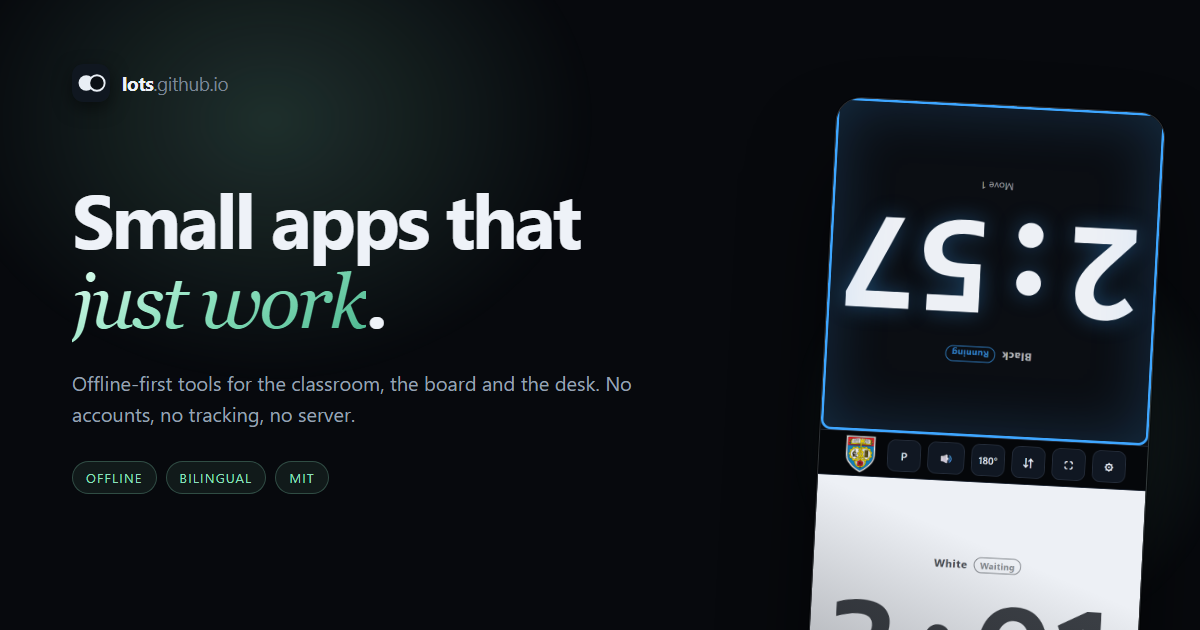
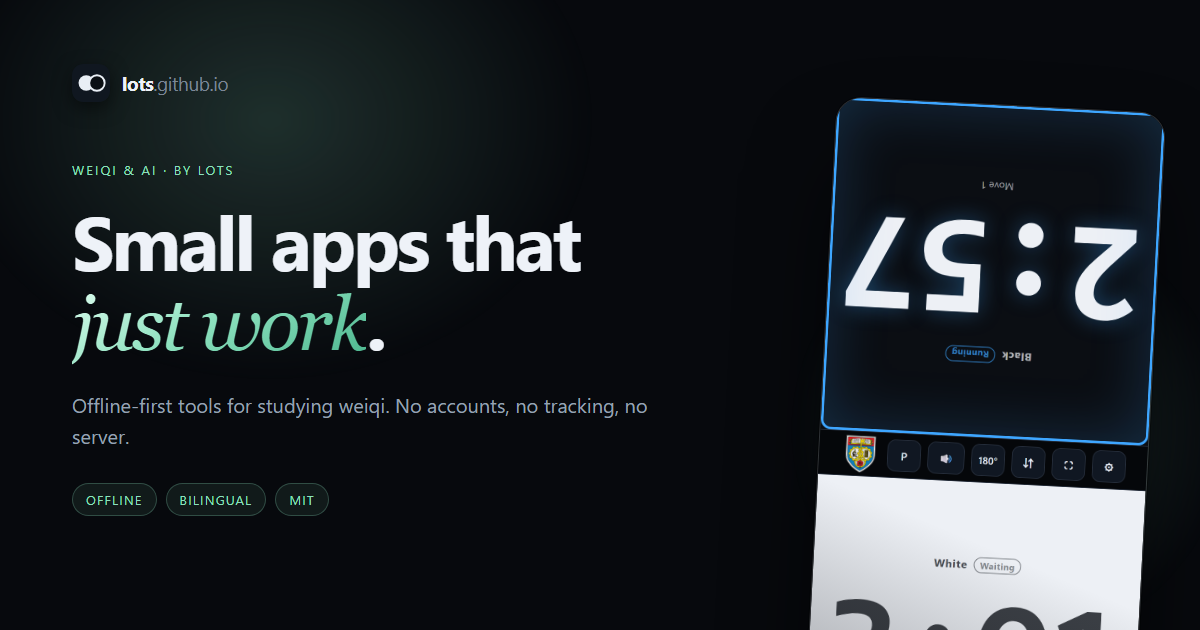
Tell the weiqi-and-AI story on the landing page

Changed region(s): [[0.0617, 0.2413, 0.555, 0.7238], [0.0617, 0.754, 0.2775, 0.8143], [0.1542, 0.2413, 0.185, 0.2714]]

diff --git a/index.html b/index.html
@@ -3,8 +3,8 @@
 <head>
 <meta charset="utf-8">
 <meta name="viewport" content="width=device-width, initial-scale=1, viewport-fit=cover">
-<title>lots — small apps that just work</title>
-<meta name="description" content="Offline-first web apps for the classroom, the board and the desk. Plain HTML and CSS — no accounts, no tracking, no server to keep alive.">
+<title>lots — weiqi, AI and small apps that just work</title>
+<meta name="description" content="Offline-first tools for studying weiqi, built by a hobbyist who likes AI: a chess and Go clock, an SGF editor, and whatever comes next. No accounts, no tracking, no server.">
 <meta name="color-scheme" content="dark light">
 <meta name="theme-color" content="#07090d">
 <link rel="canonical" href="https://lots.github.io/">
@@ -15,8 +15,8 @@
 
 <meta property="og:type" content="website">
 <meta property="og:site_name" content="lots">
-<meta property="og:title" content="lots — small apps that just work">
-<meta property="og:description" content="Offline-first web apps for the classroom, the board and the desk. No accounts, no tracking, no server.">
+<meta property="og:title" content="lots — weiqi, AI and small apps that just work">
+<meta property="og:description" content="Offline-first tools for studying weiqi, built by a hobbyist who likes AI. No accounts, no tracking, no server.">
 <meta property="og:url" content="https://lots.github.io/">
 <meta property="og:image" content="https://lots.github.io/assets/og.png">
 <meta property="og:image:width" content="1200">
@@ -80,14 +80,14 @@
 
 <main id="main">
   <section class="hero wrap">
-    <p class="eyebrow"><span class="dot" aria-hidden="true"></span><span class="i18n-en">Apps by lots</span><span class="i18n-zh">lots 的应用</span></p>
+    <p class="eyebrow"><span class="dot" aria-hidden="true"></span><span class="i18n-en">Weiqi &amp; AI, by lots</span><span class="i18n-zh">围棋与 AI，lots 出品</span></p>
     <h1>
       <span class="i18n-en">Small apps that <em>just work</em>.</span>
       <span class="i18n-zh">小而可靠，<em>打开就能用</em>。</span>
     </h1>
     <p class="lede">
-      <span class="i18n-en">Offline-first tools for the classroom, the board and the desk. Plain HTML and CSS — no accounts, no tracking, no server to keep alive.</span>
-      <span class="i18n-zh">为课堂、棋盘和书桌准备的离线小工具。纯 HTML 与 CSS——不需要账号，不做追踪，也没有要一直开着的服务器。</span>
+      <span class="i18n-en">Offline-first tools for studying weiqi — made by a hobbyist who likes AI. No accounts, no tracking, no server to keep alive.</span>
+      <span class="i18n-zh">一个围棋爱好者的离线小工具，顺手用上 AI。没有账号，没有追踪，也没有要一直开着的服务器。</span>
     </p>
     <div class="hero-cta">
       <a class="btn btn-primary" href="#apps">
@@ -167,36 +167,53 @@
 
   <section id="about" class="about wrap">
     <div class="about-card">
-      <h2><span class="i18n-en">Built to be boring — in the good way.</span><span class="i18n-zh">把「无聊」做好，其实是件好事。</span></h2>
-      <div class="about-cols">
-        <div>
-          <h3><span class="i18n-en">Nothing to maintain</span><span class="i18n-zh">没有东西要维护</span></h3>
-          <p>
-            <span class="i18n-en">Every app is static files on GitHub Pages. No database, no API keys, no bill at the end of the month.</span>
-            <span class="i18n-zh">每个应用都是 GitHub Pages 上的静态文件。没有数据库，没有 API 密钥，月底也没有账单。</span>
-          </p>
-        </div>
-        <div>
-          <h3><span class="i18n-en">Yours to keep</span><span class="i18n-zh">数据留在你手里</span></h3>
-          <p>
-            <span class="i18n-en">Data lives in the browser. Leave the tab open on a plane, come back, nothing has moved.</span>
-            <span class="i18n-zh">数据存在浏览器里。在飞机上开着标签页，回来时一切照旧。</span>
-          </p>
-        </div>
-        <div>
-          <h3><span class="i18n-en">Made for phones</span><span class="i18n-zh">为手机而做</span></h3>
-          <p>
-            <span class="i18n-en">Add to home screen, open full-screen, use it offline — no app store and no install step.</span>
-            <span class="i18n-zh">添加到主屏幕，全屏打开，离线可用——不用应用商店，也不用安装。</span>
-          </p>
-        </div>
+      <div class="about-lede">
+        <p class="kicker"><span class="i18n-en">About</span><span class="i18n-zh">关于</span></p>
+        <h2>
+          <span class="i18n-en">Weiqi is my hobby.<br>AI is the other one.</span>
+          <span class="i18n-zh">围棋是我的爱好，<br>AI 是另一个。</span>
+        </h2>
+        <p>
+          <span class="i18n-en">I'm lots. I play weiqi for fun, and I build small tools with AI to study it better — a clock that reads byoyomi properly, an editor that keeps every variation of a review session. I make them for my own practice first; if they help yours too, I'm glad.</span>
+          <span class="i18n-zh">我是 lots。下棋是为了开心，也喜欢用 AI 做些小工具，把棋研究得更透一些——按围棋习惯读秒的棋钟，能装下整棵变化树的打谱器。先为自己用；如果也能帮到你，那就更好了。</span>
+        </p>
+        <p class="next">
+          <span class="i18n-en">Next up: AI-assisted review — tools that explain why a move is good, not just how much it wins by.</span>
+          <span class="i18n-zh">接下来是 AI 复盘：不只告诉你赢多少，也试着讲清楚一手棋为什么好。</span>
+        </p>
+        <a class="link" href="https://github.com/lots">
+          <span class="i18n-en">More on GitHub &rarr;</span><span class="i18n-zh">在 GitHub 上看看 &rarr;</span>
+        </a>
       </div>
+      <ul class="principles">
+        <li>
+          <h3><span class="num" aria-hidden="true">01</span><span class="i18n-en">One job each</span><span class="i18n-zh">一个应用只做一件事</span></h3>
+          <p>
+            <span class="i18n-en">A clock is a clock. Every app opens instantly and does the one thing it is for.</span>
+            <span class="i18n-zh">棋钟就是棋钟。每个应用打开即用，只做它该做的那件事。</span>
+          </p>
+        </li>
+        <li>
+          <h3><span class="num" aria-hidden="true">02</span><span class="i18n-en">Works offline</span><span class="i18n-zh">离线也能用</span></h3>
+          <p>
+            <span class="i18n-en">No accounts, no sync, no server. Your settings stay in the browser, and the files are yours.</span>
+            <span class="i18n-zh">没有账号，不做同步，也不用服务器。设置留在浏览器里，文件都在你手上。</span>
+          </p>
+        </li>
+        <li>
+          <h3><span class="num" aria-hidden="true">03</span><span class="i18n-en">Open source</span><span class="i18n-zh">开源</span></h3>
+          <p>
+            <span class="i18n-en">MIT licensed and plain HTML. Take it, fork it, run it at your club.</span>
+            <span class="i18n-zh">MIT 许可，纯 HTML。拿去用、改一改，在棋社里跑起来。</span>
+          </p>
+        </li>
+      </ul>
     </div>
   </section>
 </main>
 
 <footer class="site-foot wrap">
-  <span>© <span id="year">2026</span> lots · <span class="i18n-en">Plain HTML, CSS and JavaScript</span><span class="i18n-zh">纯 HTML、CSS 与 JavaScript</span></span>
+  <span>© <span id="year">2026</span> lots · <span class="i18n-en">Weiqi &amp; AI, in plain HTML</span><span class="i18n-zh">围棋与 AI，纯 HTML</span></span>
   <nav aria-label="Footer">
     <a href="#apps"><span class="i18n-en">Apps</span><span class="i18n-zh">应用</span></a>
     <a href="#about"><span class="i18n-en">About</span><span class="i18n-zh">关于</span></a>

diff --git a/styles.css b/styles.css
@@ -43,6 +43,7 @@ html[data-theme="light"]{
 
 *,*::before,*::after{box-sizing:border-box}
 html{-webkit-text-size-adjust:100%}
+@media (prefers-reduced-motion:no-preference){html{scroll-behavior:smooth}}
 body{
   margin:0;
   background:var(--bg);
@@ -122,7 +123,7 @@ html[data-lang="en"] .lang-opt[data-lang-opt="en"],
 html[data-lang="zh"] .lang-opt[data-lang-opt="zh"]{color:var(--text);font-weight:600}
 
 /* ---------- hero ---------- */
-.hero{padding:78px 0 54px;text-align:center}
+.hero{padding:78px 0 44px;text-align:center}
 .eyebrow{
   display:inline-flex;align-items:center;gap:9px;margin:0 0 22px;padding:7px 13px 7px 11px;
   border:1px solid var(--line);border-radius:999px;background:rgba(127,127,127,.06);
@@ -162,7 +163,7 @@ html[data-theme="light"] .btn-primary{box-shadow:0 8px 20px rgba(15,23,42,.18)}
 html[data-lang="zh"] .facts b{letter-spacing:.06em}
 
 /* ---------- apps ---------- */
-.apps{padding:66px 0 10px;scroll-margin-top:84px}
+.apps{padding:56px 0 10px;scroll-margin-top:84px}
 .apps-head{display:flex;align-items:flex-end;justify-content:space-between;gap:24px;flex-wrap:wrap;margin-bottom:26px}
 .apps-head h2{margin:0;font-size:clamp(1.5rem,2.2vw,1.85rem);letter-spacing:-.03em;font-weight:640}
 html[data-lang="zh"] .apps-head h2{letter-spacing:-.01em}
@@ -242,13 +243,25 @@ html[data-theme="light"] .app-shot.is-landscape img{box-shadow:0 24px 50px -30px
 
 /* ---------- about ---------- */
 .about{padding:66px 0 0;scroll-margin-top:84px}
-.about-card{border:1px solid var(--line);border-radius:24px;padding:40px 44px;background:var(--card-bg)}
-.about-card h2{margin:0;font-size:clamp(1.45rem,2.2vw,1.8rem);letter-spacing:-.03em;font-weight:640;max-width:20em}
-html[data-lang="zh"] .about-card h2{letter-spacing:-.01em}
-.about-cols{display:grid;grid-template-columns:repeat(3,1fr);gap:30px;margin-top:30px}
-.about-cols h3{margin:0 0 7px;font-size:13px;color:var(--text);font-weight:620}
-.about-cols p{margin:0;color:var(--muted);font-size:13.2px;line-height:1.6}
-html[data-lang="zh"] .about-cols p{line-height:1.75}
+.about-card{
+  display:grid;grid-template-columns:1.1fr .9fr;gap:56px;align-items:start;
+  border:1px solid var(--line);border-radius:24px;padding:46px 48px;background:var(--card-bg);
+}
+.kicker{margin:0 0 18px;font-size:10.5px;letter-spacing:.14em;text-transform:uppercase;color:var(--accent)}
+html[data-lang="zh"] .kicker{letter-spacing:.06em}
+.about-lede h2{margin:0;font-size:clamp(1.7rem,2.6vw,2.15rem);line-height:1.2;letter-spacing:-.03em;font-weight:640;max-width:14em}
+html[data-lang="zh"] .about-lede h2{letter-spacing:-.01em;line-height:1.35}
+.about-lede p{margin:18px 0 0;color:var(--muted);font-size:14.6px;line-height:1.68;max-width:34em}
+html[data-lang="zh"] .about-lede p{line-height:1.82}
+.about-lede p.next{color:var(--muted-2);font-size:13.4px;margin-top:14px}
+.about-lede .link{display:inline-block;margin-top:20px}
+.principles{list-style:none;margin:0;padding:0;display:grid;align-content:start}
+.principles li{border-top:1px solid var(--line);padding:18px 0}
+.principles li:first-child{border-top:0;padding-top:0}
+.principles h3{display:flex;align-items:baseline;gap:10px;margin:0;font-size:13px;font-weight:620;color:var(--text)}
+.principles h3 .num{font-size:10.5px;letter-spacing:.08em;color:var(--muted-2);font-weight:500;font-variant-numeric:tabular-nums}
+.principles p{margin:6px 0 0;color:var(--muted);font-size:13.1px;line-height:1.62;max-width:30em}
+html[data-lang="zh"] .principles p{line-height:1.78}
 
 /* ---------- footer ---------- */
 .site-foot{
@@ -269,7 +282,7 @@ html[data-lang="zh"] .about-cols p{line-height:1.75}
 @media (max-width:900px){
   .app-card{grid-template-columns:1fr;padding:32px 28px 34px;gap:30px}
   .app-shot.is-portrait img{height:340px}
-  .about-cols{grid-template-columns:1fr;gap:22px}
+  .about-card{grid-template-columns:1fr;gap:34px;padding:32px 28px}
 }
 @media (max-width:640px){
   .wrap{width:calc(100% - 36px)}
@@ -284,7 +297,7 @@ html[data-lang="zh"] .about-cols p{line-height:1.75}
   .apps-head{align-items:flex-start}
   .search{flex:1}
   .search input{width:100%}
-  .about-card{padding:30px 24px}
+  .about-card{padding:28px 22px}
   .site-foot{gap:10px}
 }
 @media (prefers-reduced-motion:reduce){

diff --git a/tools/og.html b/tools/og.html
@@ -18,7 +18,8 @@
   .brand{position:relative;display:flex;align-items:center;gap:12px;font-weight:650;font-size:19px;letter-spacing:-.02em}
   .brand svg{width:38px;height:38px;border-radius:11px;box-shadow:0 6px 18px rgba(0,0,0,.5)}
   .brand .fade{color:#7c8796;font-weight:450}
-  .copy{position:relative;width:640px;margin-top:76px}
+  .copy{position:relative;width:640px;margin-top:58px}
+  .eyebrow{margin:0 0 20px;font-size:13px;letter-spacing:.16em;text-transform:uppercase;color:#8be0bd}
   h1{margin:0;font-size:76px;line-height:1.04;letter-spacing:-.04em;font-weight:660}
   h1 em{font-family:ui-serif,"Iowan Old Style",Palatino,Georgia,serif;font-style:italic;font-weight:500;
     background:linear-gradient(150deg,#d8fbec 5%,#8be0bd 48%,#4fb991 95%);-webkit-background-clip:text;background-clip:text;color:transparent}
@@ -48,8 +49,9 @@
 </div>
 
 <div class="copy">
+  <p class="eyebrow">Weiqi &amp; AI · by lots</p>
   <h1>Small apps that<br><em>just work</em>.</h1>
-  <p>Offline-first tools for the classroom, the board and the desk. No accounts, no tracking, no server.</p>
+  <p>Offline-first tools for studying weiqi. No accounts, no tracking, no server.</p>
   <div class="chips"><span>Offline</span><span>Bilingual</span><span>MIT</span></div>
 </div>
 

diff --git a/README.md b/README.md
@@ -1,7 +1,8 @@
 # lots.github.io
 
-A static portal for small, offline-first web apps. No framework, no runtime dependencies,
-no analytics: one HTML page, one stylesheet, one small script, and a folder per app.
+A static portal for small, offline-first tools — mostly for studying weiqi. No framework,
+no runtime dependencies, no analytics: one HTML page, one stylesheet, one small script, and
+a folder per app.
 
 Live at **https://lots.github.io/**.
 
